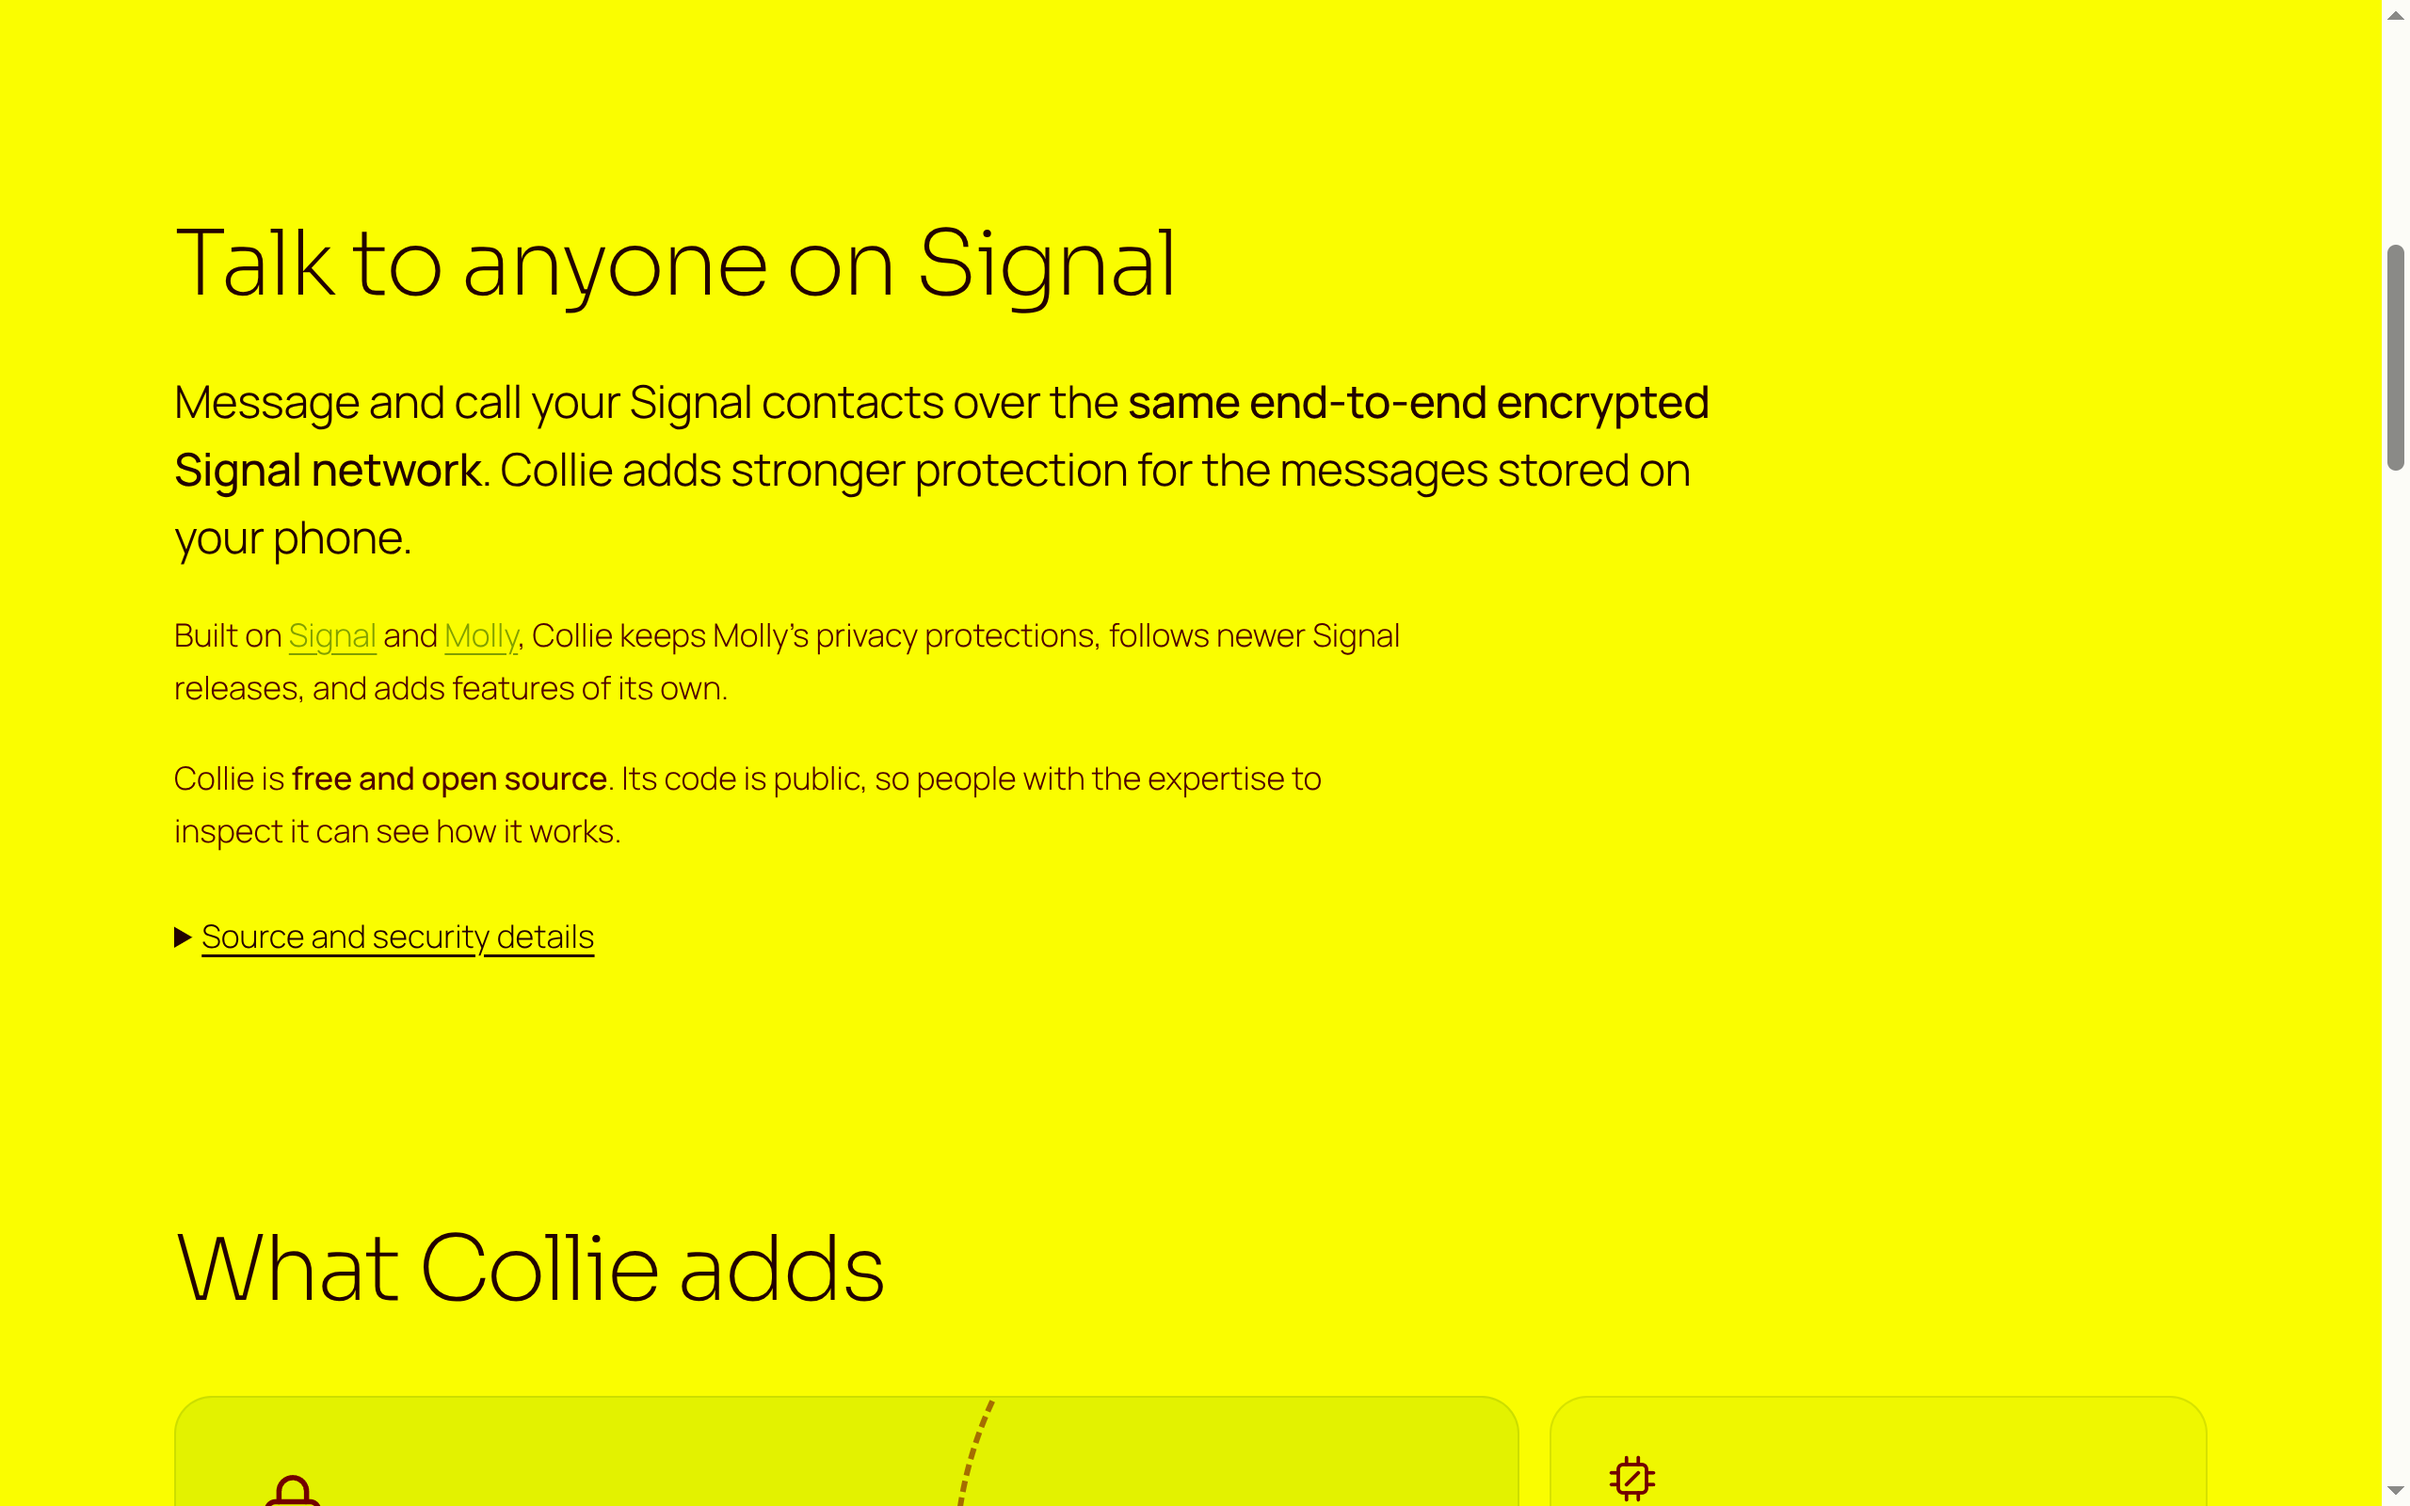
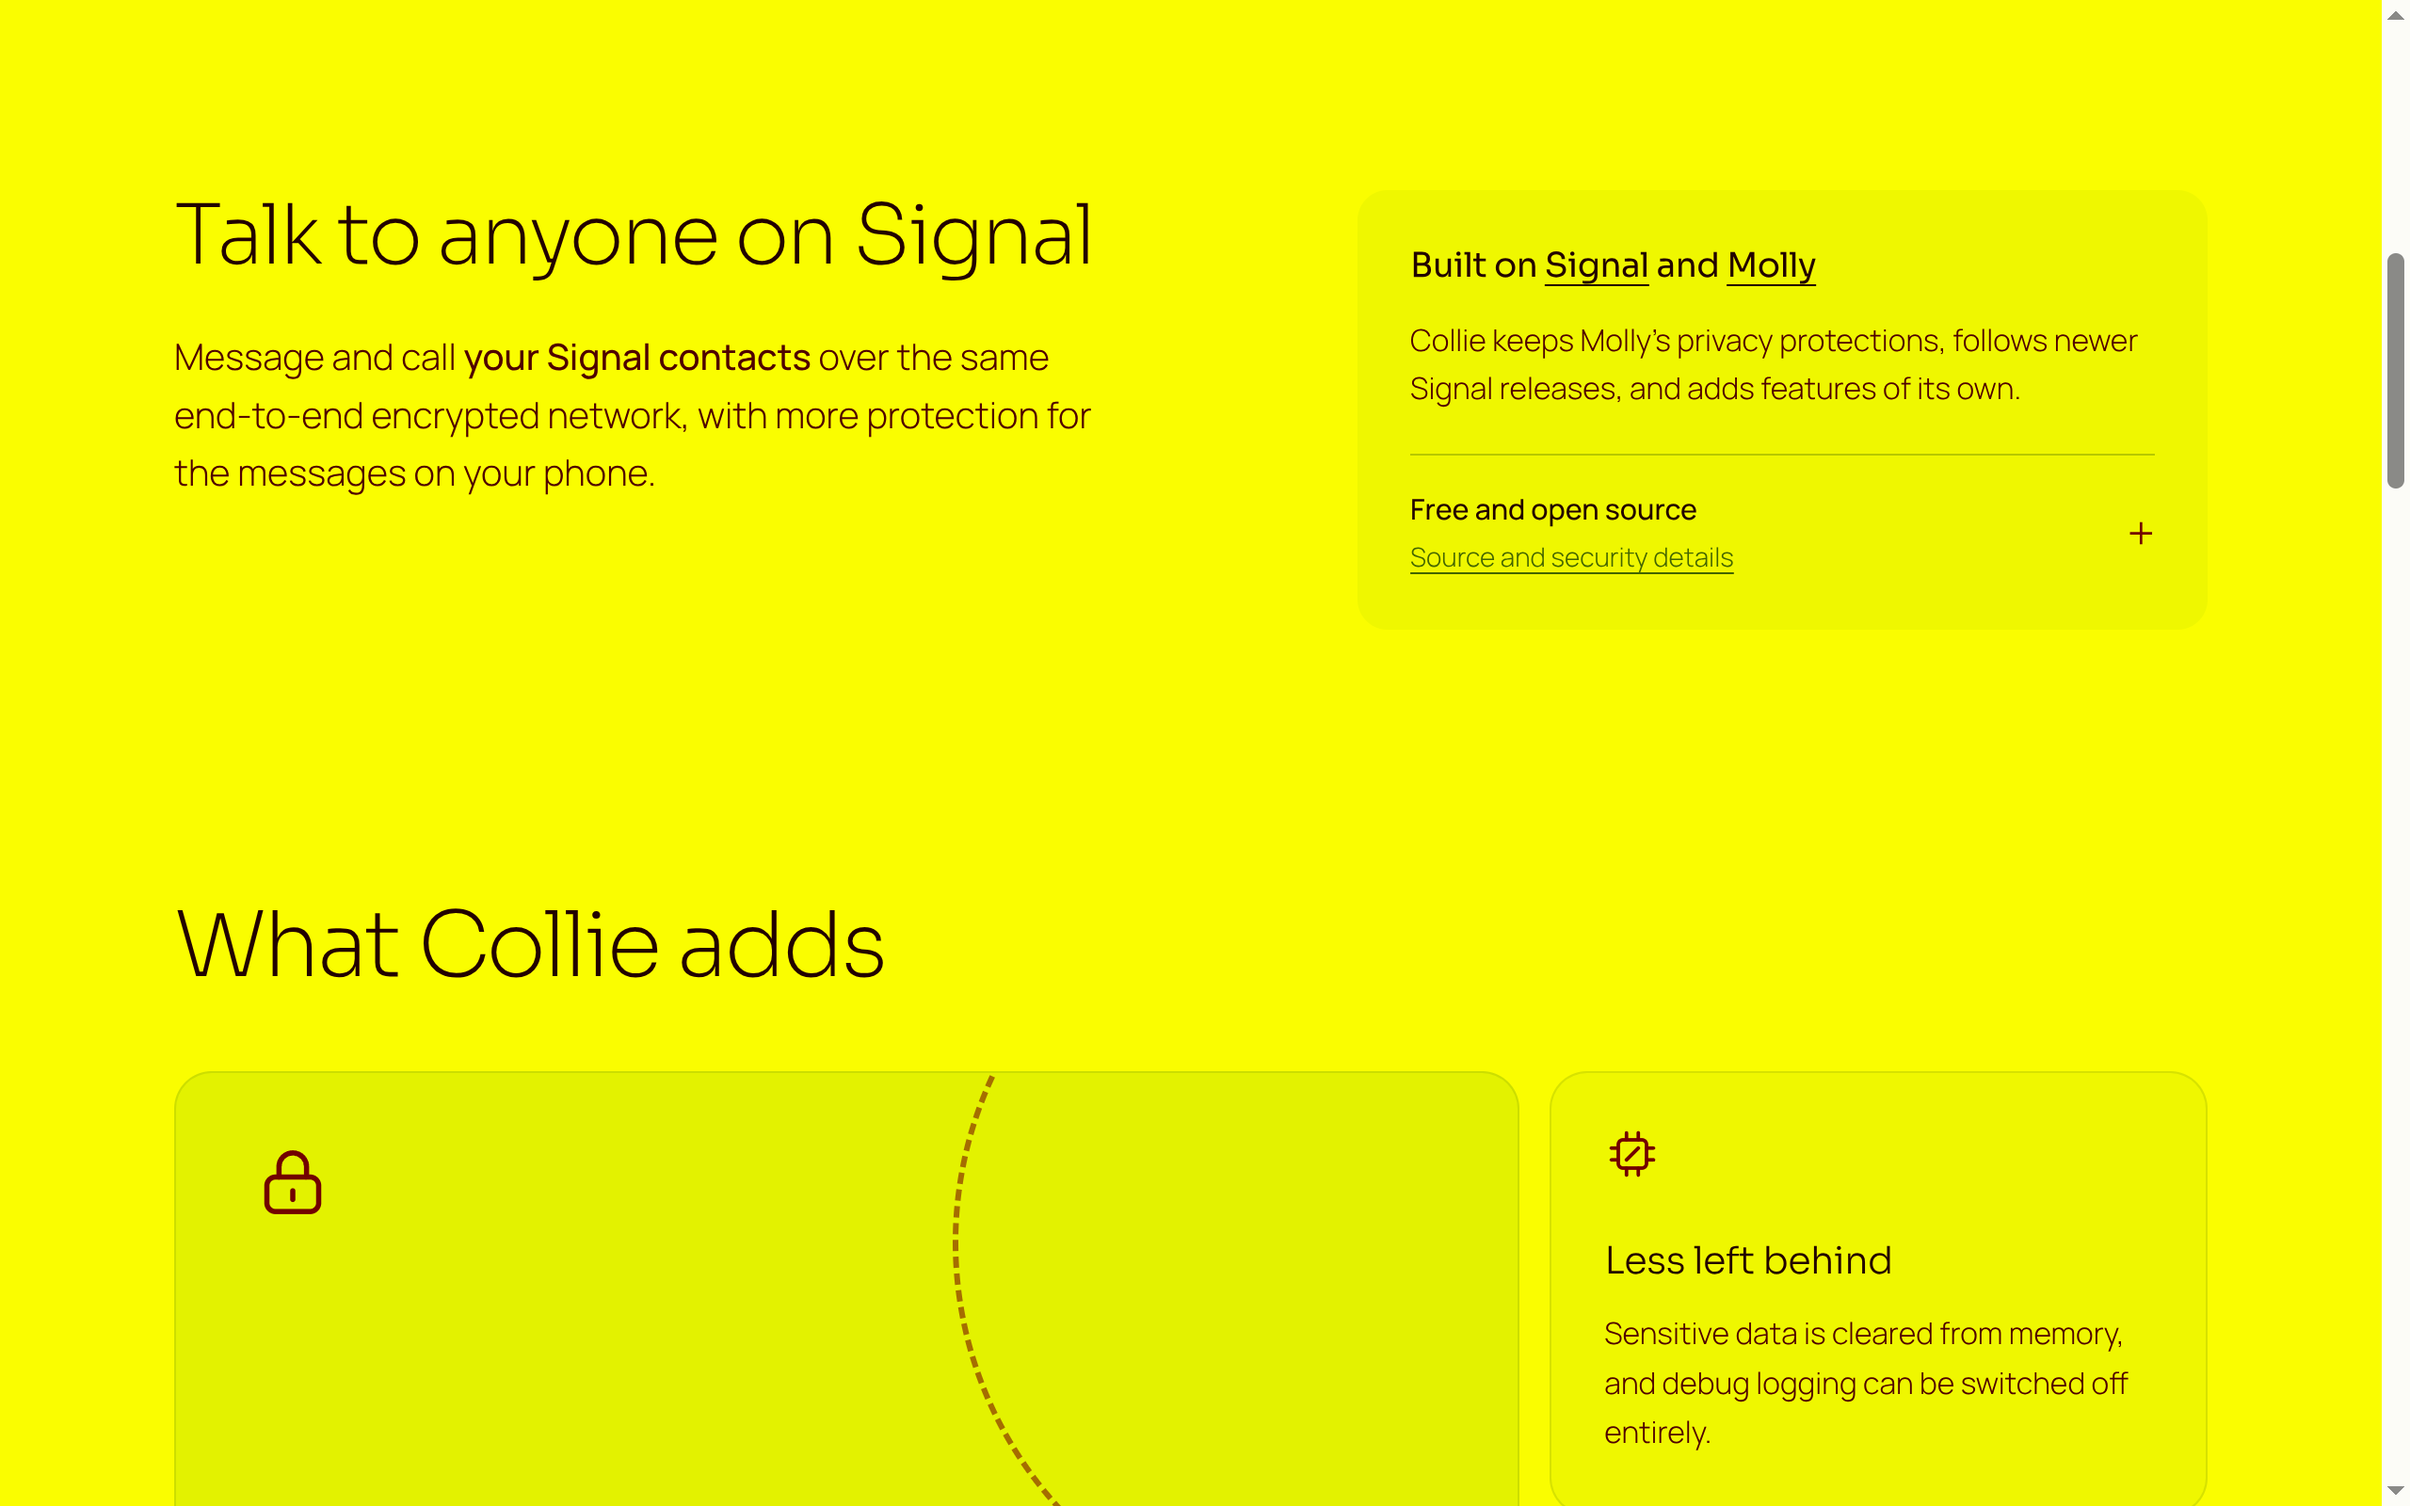
Give the consolidated introduction a clear visual hierarchy
Lead with Signal compatibility and one short benefit statement. Group project provenance and expandable source details in a quieter adjacent panel, stacking it below the benefit on small screens. Keep technical copy behind the disclosure and anchor both columns so opening it does not shift the main message. Refresh desktop and mobile captures.

Layer: website

diff --git a/docs/site/assets/site.css b/docs/site/assets/site.css
@@ -51,7 +51,7 @@
 html{-webkit-text-size-adjust:100%;scroll-behavior:smooth;scroll-padding-top:24px}
 body{margin:0;background:var(--page);color:var(--ink);font:300 1.0625rem/1.65 Manrope,system-ui,sans-serif;font-optical-sizing:auto;-webkit-font-smoothing:antialiased;text-rendering:optimizeLegibility}
 img,svg{display:block;max-width:100%}
-h1,h2,h3,p,ul,ol,figure{margin:0}
+h1,h2,h3,h4,p,ul,ol,figure{margin:0}
 ul,ol{padding:0;list-style:none}
 strong{font-weight:500}
 code{font:400 .92em/1 Manrope,sans-serif;letter-spacing:.02em;padding:.14em .4em;border-radius:6px;background:var(--card-line)}
@@ -117,9 +117,21 @@ a:hover{text-decoration-thickness:2px}
 @keyframes ring{from{transform:rotate(-24deg);opacity:.2}}
 
 /* ---------- intro ---------- */
-.intro{padding-block:clamp(48px,7vw,96px) clamp(40px,6vw,72px)}
-.statement{max-width:58ch;margin-top:28px;font:350 clamp(1.2rem,2.3vw,1.5rem)/1.5 Manrope,sans-serif;letter-spacing:-.01em}
-.statement-sub{max-width:66ch;margin-top:20px;color:var(--ink-2);font-size:1.0625rem}
+.intro{display:grid;grid-template-columns:minmax(0,1.1fr) minmax(0,.9fr);align-items:start;gap:clamp(32px,6vw,80px);padding-block:clamp(48px,6vw,80px)}
+.intro-copy h2{max-width:16ch;font-size:clamp(2rem,3.7vw,2.75rem);line-height:1.12}
+.intro-copy .statement{max-width:43ch;margin-top:24px;font-size:clamp(1.0625rem,1.5vw,1.25rem);line-height:1.6;color:var(--ink-2)}
+.intro-source{padding:28px;background:var(--card);border-radius:16px}
+.intro-source h3{font-size:1.125rem;font-weight:400;line-height:1.4}
+.intro-source h3 a{color:inherit}
+.intro-source>p{margin-top:14px;font-size:1rem;line-height:1.6;color:var(--ink-2);max-width:44ch}
+.intro-source .technical-details{margin-top:22px;padding-top:18px;border-top:1px solid var(--rule)}
+.intro-source .technical-details summary{display:flex;align-items:center;justify-content:space-between;gap:16px;list-style:none;text-decoration:none;font-size:.95rem;line-height:1.45}
+.intro-source summary::-webkit-details-marker{display:none}
+.intro-source summary::after{content:"+";font:300 1.6rem/1 Manrope,sans-serif;color:var(--icon)}
+.intro-source details[open] summary::after{content:"−"}
+.source-summary-help{display:block;margin-top:4px;font-size:.875rem;color:var(--link);text-decoration:underline;text-underline-offset:.22em}
+.source-explanation{margin-top:20px;color:var(--ink-2);font-size:.95rem;line-height:1.6}
+@media (max-width:760px){.intro{grid-template-columns:1fr;gap:28px}.intro-copy h2{max-width:20ch}.intro-source{padding:24px}}
 
 /* ---------- features ---------- */
 h2{font:200 clamp(2rem,4vw,3rem)/1.12 Sora,sans-serif;letter-spacing:-.035em;text-wrap:balance}

diff --git a/docs/site/index.html b/docs/site/index.html
@@ -82,12 +82,16 @@ FORM: User-pinned direction (palette, fonts, dark hero with lichen cards), no ro
 
 <main id="main">
   <section id="about" class="intro shell" aria-labelledby="about-title">
-    <h2 id="about-title">Talk to anyone on Signal</h2>
-    <p class="statement">Message and call your Signal contacts over the <strong>same end-to-end encrypted Signal network</strong>. Collie adds stronger protection for the messages stored on your phone.</p>
-    <p class="statement-sub">Built on <a href="https://signal.org/">Signal</a> and <a href="https://molly.im/">Molly</a>, Collie keeps Molly's privacy protections, follows newer Signal releases, and adds features of its own.</p>
-    <p class="statement-sub">Collie is <strong>free and open source</strong>. Its code is public, so people with the expertise to inspect it can see how it works.</p>
+    <div class="intro-copy">
+      <h2 id="about-title">Talk to anyone on Signal</h2>
+      <p class="statement">Message and call <strong>your Signal contacts</strong> over the same end-to-end encrypted network, with more protection for the messages on your phone.</p>
+    </div>
+    <aside class="intro-source" aria-labelledby="source-title">
+      <h3 id="source-title">Built on <a href="https://signal.org/">Signal</a> and <a href="https://molly.im/">Molly</a></h3>
+      <p>Collie keeps Molly's privacy protections, follows newer Signal releases, and adds features of its own.</p>
     <details class="technical-details">
-      <summary>Source and security details</summary>
+      <summary><span><strong>Free and open source</strong><span class="source-summary-help">Source and security details</span></span></summary>
+      <p class="source-explanation">Collie's code is public, so people with the expertise to inspect it can see how it works.</p>
       <ul class="ticks">
         <li>One APK, with no proprietary libraries, licensed <a href="https://github.com/0cwa/collieim-android/blob/main/LICENSE">AGPL-3.0</a>.</li>
         <li><a href="https://github.com/0cwa/collieim-android">Browse the source code</a> or read the <a href="https://github.com/0cwa/collie-release-engineering">release engineering and signing details</a>.</li>
@@ -95,6 +99,7 @@ FORM: User-pinned direction (palette, fonts, dark hero with lichen cards), no ro
       </ul>
       <p class="note">Collie's native libraries have not yet been independently reproduced.</p>
     </details>
+    </aside>
   </section>
 
   <section id="features" class="features shell" aria-labelledby="features-title">
